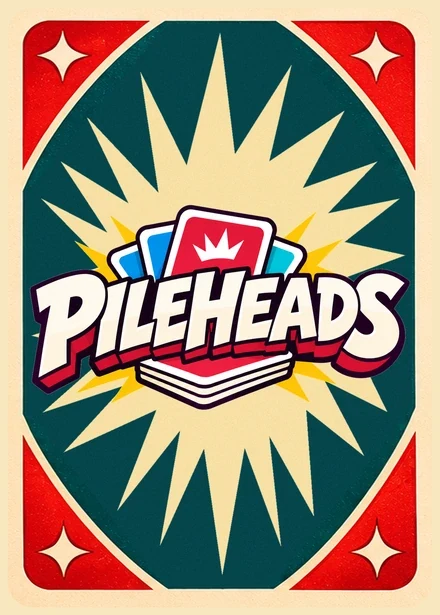
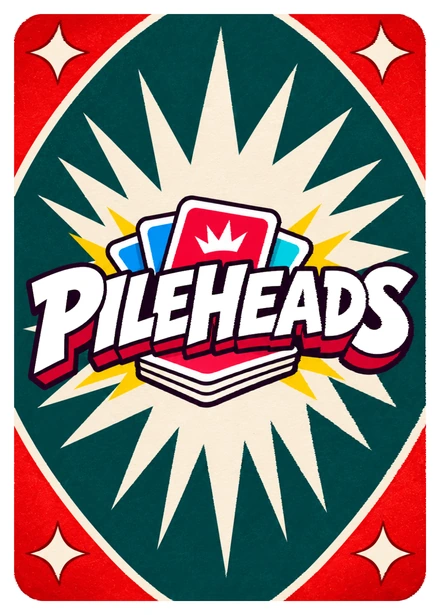
Use approved PILEHEADS V8 card back across web and simulator

diff --git a/apps/web/app/official-home.module.css b/apps/web/app/official-home.module.css
@@ -3,7 +3,7 @@
 .header{position:relative;z-index:3;background:#111b1e;color:var(--paper);border-bottom:4px solid #242e30}.nav{max-width:1320px;margin:auto;min-height:82px;padding:9px 5%;display:flex;align-items:center;justify-content:space-between;gap:28px;font-size:clamp(14px,1.6vw,19px);letter-spacing:0}.nav nav{display:flex;align-items:center;gap:clamp(16px,3vw,48px);flex-wrap:wrap}.nav nav a{padding:9px 2px}.nav nav a:hover{color:var(--yellow)}.nav .navPlay{background:var(--yellow);color:#151715;border-radius:50px;padding:11px 22px;white-space:nowrap}.nav .navPlay:hover{color:#151715;background:#ffe183}
 .brand{display:inline-flex;position:relative;flex-direction:column;isolation:isolate;align-items:center;line-height:.85;padding:12px 10px 13px;transform:rotate(-8deg);font-size:clamp(35px,4.4vw,64px);letter-spacing:-.07em;white-space:nowrap;color:var(--paper);filter:drop-shadow(0 2px 0 #050a09)}.brandWord{position:relative;z-index:1;-webkit-text-stroke:1px var(--ink);paint-order:stroke fill;text-shadow:3px 3px #0c1516,-2px -2px #0c1516,2px -2px #0c1516,-2px 2px #0c1516}.brand:after{content:"";position:absolute;z-index:0;bottom:6px;width:79%;height:8px;background:var(--yellow);border:2px solid #121a1a;transform:skew(-25deg)}.brandCards{display:flex;position:absolute;left:34%;top:0;gap:2px;z-index:-1;transform:rotate(4deg)}.brandCards i{display:block;background:var(--red);height:20px;width:15px;border:2px solid var(--paper);border-radius:2px;transform:rotate(-14deg)}.brandCards i:nth-child(2){transform:translateY(-3px)}.brandCards i:last-child{transform:rotate(14deg)}
 .hero,.deck,.physical,.closing{position:relative;background-image:var(--grain);background-size:4px 4px}.hero{background-color:#086879;color:var(--paper);isolation:isolate;background-image:var(--grain),radial-gradient(ellipse at 70% 52%,#1594a2 0%,transparent 69%);background-size:4px 4px,auto}.hero:after{content:"";position:absolute;left:-3%;right:-3%;height:35px;bottom:-1px;background:var(--paper);clip-path:polygon(0 70%,7% 25%,14% 60%,21% 30%,29% 65%,38% 32%,47% 65%,56% 27%,65% 62%,75% 33%,84% 60%,94% 25%,100% 55%,100% 100%,0 100%);pointer-events:none}.heroInner{width:min(1320px,100%);margin:auto;min-height:clamp(500px,48vw,680px);padding:clamp(38px,6vw,88px) 5% 70px;display:grid;grid-template-columns:.84fr 1.16fr;align-items:center;gap:25px}.heroCopy{position:relative;z-index:2}.kicker{font-weight:850;text-transform:uppercase;letter-spacing:.13em;font-size:clamp(10px,1vw,13px);margin-bottom:12px!important}.hero h1{font-size:clamp(66px,8.1vw,118px);line-height:.84;letter-spacing:-.065em;transform:skew(-3deg) rotate(-3deg);text-shadow:5px 7px 0 #10323a,9px 11px 0 #12343a;margin:12px 0 28px;max-width:100%}.hero h1 span,.home h2 span{color:var(--yellow)}.lead{max-width:415px;font-size:clamp(17px,1.7vw,22px);font-weight:700;line-height:1.45}.buttons{display:flex;align-items:flex-start;flex-wrap:wrap;gap:13px;margin-top:24px}.hero .buttons{flex-direction:column;align-items:flex-start}.button{display:inline-flex;min-height:50px;align-items:center;justify-content:center;gap:10px;padding:12px 24px;font-size:clamp(15px,1.75vw,21px);line-height:1.15;letter-spacing:0;border:2px solid #172021;border-radius:999px;box-shadow:0 4px 0 #172021;transition:transform .18s,box-shadow .18s;text-align:center}.button:hover{transform:translateY(-3px);box-shadow:0 7px 0 #172021}.button:active{transform:translateY(3px);box-shadow:0 1px 0 #172021}.red{background:#c92122;color:#fff8e8}.cream{background:#fff3d5;color:var(--ink)}.yellow{background:var(--yellow);color:var(--ink)}.facts{display:flex;flex-wrap:wrap;gap:8px 15px;margin-top:22px;font-size:12px;font-weight:850;text-transform:uppercase}.facts span+span:before{content:"•";margin-right:15px;color:var(--yellow)}
-.card{display:block;aspect-ratio:252/355;border-radius:7%;background-image:url("/pilehead/assets/stack-characters.webp?v=white-border-v7");background-size:400% 400%;background-repeat:no-repeat;background-color:var(--paper);box-shadow:0 2px 0 #ac9365,0 8px 15px #0a151a5c;flex:none;transition:transform .22s ease}.heroArt{min-height:460px;position:relative;isolation:isolate}.burst{position:absolute;inset:-15% -25%;z-index:-1;background:repeating-conic-gradient(from -14deg at 50% 50%,transparent 0deg 15deg,#f6c32c8a 16deg 19deg,transparent 20deg 33deg);mask-image:radial-gradient(ellipse,transparent 18%,#000 42%,transparent 72%);transform:rotate(-9deg);pointer-events:none}.heroArt .card{position:absolute;width:28%;top:9%;transform:rotate(var(--r));z-index:var(--z,1)}.heroBurn{left:7%;--r:-19deg}.heroDump{left:29%;--r:-5deg;--z:2}.heroGhost{left:50%;--r:9deg;--z:3}.heroReset{left:70%;--r:20deg;--z:2;top:20%!important}.heroArt .heroOne{width:34%;left:10%;top:38%;--r:-14deg;--z:4}.heroArt .heroTwo{width:28%;left:69%;top:51%;--r:20deg;--z:4}.heroArt .heroSeven{width:29%;left:47%;top:40%;--r:8deg;--z:5}.backStack,.productBack,.tableBack{background:url("/pilehead/assets/stack-back.webp") center/cover;border:3px solid var(--paper);border-radius:10px;box-shadow:0 2px 0 #ba9e73,0 4px 0 #f0d8a9,0 6px 0 #a99062,0 8px 0 #f0d8a9,0 16px 19px #0005}.backStack{position:absolute;width:36%;aspect-ratio:252/355;left:33%;bottom:0;z-index:7;transform:rotate(67deg) scaleY(.79)}.artCaption{position:absolute;bottom:3%;right:0;z-index:8;color:var(--yellow);font-style:italic;font-weight:950;font-size:clamp(12px,1.6vw,19px);transform:rotate(-8deg);text-shadow:2px 2px #14363a}
+.card{display:block;aspect-ratio:252/355;border-radius:7%;background-image:url("/pilehead/assets/stack-characters.webp?v=white-border-v7");background-size:400% 400%;background-repeat:no-repeat;background-color:var(--paper);box-shadow:0 2px 0 #ac9365,0 8px 15px #0a151a5c;flex:none;transition:transform .22s ease}.heroArt{min-height:460px;position:relative;isolation:isolate}.burst{position:absolute;inset:-15% -25%;z-index:-1;background:repeating-conic-gradient(from -14deg at 50% 50%,transparent 0deg 15deg,#f6c32c8a 16deg 19deg,transparent 20deg 33deg);mask-image:radial-gradient(ellipse,transparent 18%,#000 42%,transparent 72%);transform:rotate(-9deg);pointer-events:none}.heroArt .card{position:absolute;width:28%;top:9%;transform:rotate(var(--r));z-index:var(--z,1)}.heroBurn{left:7%;--r:-19deg}.heroDump{left:29%;--r:-5deg;--z:2}.heroGhost{left:50%;--r:9deg;--z:3}.heroReset{left:70%;--r:20deg;--z:2;top:20%!important}.heroArt .heroOne{width:34%;left:10%;top:38%;--r:-14deg;--z:4}.heroArt .heroTwo{width:28%;left:69%;top:51%;--r:20deg;--z:4}.heroArt .heroSeven{width:29%;left:47%;top:40%;--r:8deg;--z:5}.backStack,.productBack,.tableBack{background:url("/pilehead/assets/stack-back.webp?v=white-border-v8") center/cover;border:3px solid var(--paper);border-radius:10px;box-shadow:0 2px 0 #ba9e73,0 4px 0 #f0d8a9,0 6px 0 #a99062,0 8px 0 #f0d8a9,0 16px 19px #0005}.backStack{position:absolute;width:36%;aspect-ratio:252/355;left:33%;bottom:0;z-index:7;transform:rotate(67deg) scaleY(.79)}.artCaption{position:absolute;bottom:3%;right:0;z-index:8;color:var(--yellow);font-style:italic;font-weight:950;font-size:clamp(12px,1.6vw,19px);transform:rotate(-8deg);text-shadow:2px 2px #14363a}
 .benefits{padding:22px 5% 31px;background-color:var(--paper);background-image:var(--grain);background-size:4px 4px}.benefits h2{text-align:center;font-size:clamp(25px,3vw,38px);margin-bottom:17px}.benefitGrid{width:min(1120px,100%);margin:auto;display:grid;grid-template-columns:repeat(3,1fr);gap:22px}.benefitGrid article{display:flex;gap:15px;align-items:center;padding:7px 17px}.benefitGrid article+article{border-left:2px solid #191b1933}.benefitGrid article>span{width:48px;height:48px;flex:none;background:var(--yellow);border:2px solid var(--ink);border-radius:50%;display:grid;place-items:center;font-weight:950;font-size:31px;line-height:1}.benefitGrid h3{font-size:clamp(18px,2vw,24px)}.benefitGrid p{font-weight:650;font-size:13px;line-height:1.4;margin-top:3px}
 .split{max-width:1320px;margin:auto;padding:clamp(42px,6vw,86px) 5%;display:grid;grid-template-columns:.85fr 1.15fr;gap:clamp(22px,5vw,75px);align-items:center}.home h2{font-size:clamp(37px,5.2vw,74px);line-height:.92;letter-spacing:-.045em}.benefits h2{font-size:clamp(25px,3vw,38px)}.split p:not(.kicker):not(.releaseNote){font-size:clamp(16px,1.6vw,20px);font-weight:650;line-height:1.5;max-width:470px;margin:17px 0 22px}.deck{background-color:#075b66;color:var(--paper)}.actionFan{display:flex;align-items:center;justify-content:center;padding:14px 12px;min-width:0}.actionFan .card{width:27%;margin-left:-2%;transform:rotate(var(--tilt));transform-origin:50% 90%}.actionFan .card:hover{transform:translateY(-12px) rotate(0);z-index:3}.fan0{--tilt:-13deg}.fan1{--tilt:-4deg}.fan2{--tilt:5deg}.fan3{--tilt:14deg}
 .online{background-color:var(--paper);background-image:var(--grain);background-size:4px 4px}.online .split{grid-template-columns:1.05fr .95fr}.online h2 span{color:var(--red)}.device{border:10px solid #182020;background:#131d1d;border-radius:25px;box-shadow:0 0 0 2px #ad936b,0 12px 0 #aa9164,0 20px 30px #211e1838;transform:rotate(-5deg);overflow:hidden;padding:5px;aspect-ratio:1.8;display:flex;flex-direction:column}.deviceHeader{display:flex;align-items:center;justify-content:space-between;color:var(--paper);padding:6px 8px;font-size:10px;font-weight:900}.deviceHeader strong{font-style:italic;font-size:20px}.deviceHeader span{color:var(--yellow)}.table{position:relative;flex:1;border:2px solid #bead7a;border-radius:45%;background:radial-gradient(ellipse,#16887d,#06525a);display:flex;flex-direction:column;align-items:center;justify-content:space-between;padding:8px}.seat{color:var(--paper);font-size:10px;font-weight:800}.tablePile{display:flex;align-items:center;justify-content:center;gap:13px;width:100%;position:absolute;top:28%}.tablePile .card,.tableBack{width:13%;aspect-ratio:252/355;box-shadow:0 4px 6px #0005}.hand{display:flex;justify-content:center;width:100%;height:37%;gap:3px}.hand .card{width:12%;align-self:flex-end;transform:rotate(-5deg)}.hand .card:nth-child(2){transform:translateY(-3px)}.hand .card:nth-child(3){transform:rotate(5deg)}.textLink{font-weight:850;text-decoration:underline;text-underline-offset:4px;align-self:center;padding:10px 3px}.physical{background-color:#c52c2c;color:var(--paper)}.physical .split{grid-template-columns:1fr 1fr}.productArt{position:relative;height:clamp(210px,28vw,370px);display:grid;place-items:center}.productBox{position:absolute;left:17%;top:2%;width:37%;height:87%;background:repeating-conic-gradient(at 50% 55%,#e0a733 0deg 3deg,transparent 3deg 21deg),#086977;border:3px solid #121b1a;box-shadow:-13px 7px 0 #08313a,-16px 9px 0 #172020,0 19px 22px #3e151a88;transform:rotate(-7deg);display:flex;flex-direction:column;align-items:center;justify-content:space-around;overflow:hidden;color:var(--paper);text-align:center;padding:5px}.productBox .brand{font-size:clamp(23px,3.5vw,49px)}.productBox>span:not(.brand){font-size:clamp(6px,.75vw,10px);font-weight:950}.productBox>.card{width:49%;transform:rotate(-5deg);box-shadow:none}.productBack{width:31%;aspect-ratio:252/355;position:absolute;left:44%;bottom:0;transform:rotate(64deg) scaleY(.74)}.productFace{position:absolute;width:28%;right:5%;top:9%;transform:rotate(16deg)}.releaseNote{font-size:13px;margin-top:15px!important;font-weight:650}
@@ -14,7 +14,7 @@
 
 /* Approved V2 artwork, web-optimized from Drive masters. Homepage only. */
 .card{aspect-ratio:63/88;background-image:url("/stack-media/stack-home-faces-web-desktop.webp?v=white-border-v7")}
-.backStack,.productBack,.tableBack{background-image:url("/stack-media/stack-home-back-web.webp")}
+.backStack,.productBack,.tableBack{background-image:url("/stack-media/stack-home-back-web.webp?v=white-border-v8")}
 .brand{display:inline-flex;align-items:center;justify-content:center;width:clamp(80px,9vw,133px);padding:0;transform:none;filter:drop-shadow(0 2px 0 #0b1011)}
 .brand img{width:100%;height:auto;max-height:76px;object-fit:contain}
 .brand:after{display:none}

diff --git a/apps/web/app/globals.css b/apps/web/app/globals.css
@@ -94,7 +94,7 @@ button:focus-visible,input:focus-visible,select:focus-visible,a:focus-visible{
   overflow:visible;will-change:transform;transform-origin:center center}
 .card-art{position:absolute;inset:2px;border-radius:7px;background-image:url("/pilehead/assets/stack-characters.webp?v=white-border-v7");
   background-size:400% 400%;background-repeat:no-repeat;pointer-events:none}
-.playing-card.is-back .card-art{background-image:url("/pilehead/assets/stack-back.webp");background-size:cover;background-position:center}
+.playing-card.is-back .card-art{background-image:url("/pilehead/assets/stack-back.webp?v=white-border-v8");background-size:cover;background-position:center}
 .playing-card.is-selected{box-shadow:0 0 0 4px var(--gold),0 14px 25px #0009;z-index:8}
 .playing-card.is-interactive:hover{box-shadow:0 0 0 2px #ffe1a5,0 15px 22px #000a}
 .card-hit{position:absolute;inset:0;width:100%;height:100%;border:0;padding:0;border-radius:10px;background:transparent}
@@ -324,7 +324,7 @@ button:focus-visible,input:focus-visible,select:focus-visible,a:focus-visible{
    and the action dock must NEVER overlap the player's physical cards. */
 .playing-card.theme-original.is-back .card-art,
 .drag-ghost.theme-original.is-back .card-art{
-  background-image:url("/pilehead/assets/stack-back.webp");
+  background-image:url("/pilehead/assets/stack-back.webp?v=white-border-v8");
   background-size:cover;
   background-position:center;
 }
@@ -911,16 +911,16 @@ button:focus-visible,input:focus-visible,select:focus-visible,a:focus-visible{
 .mini-pair{width:30px;height:40px}
 .mini-back,.mini-face{width:30px;height:40px;border-radius:5px}
 .opponent-card-stack .hand-back{
-  background-image:url("/pilehead/assets/stack-back.webp");
+  background-image:url("/pilehead/assets/stack-back.webp?v=white-border-v8");
   background-size:cover;background-position:center;
   border-color:#f9e9c8;box-shadow:0 3px 8px #0008,0 1px 1px #edd9a8
 }
 .pile-zone .stack-depth{
-  background-image:url("/pilehead/assets/stack-back.webp");
+  background-image:url("/pilehead/assets/stack-back.webp?v=white-border-v8");
   background-size:cover;background-position:center;opacity:.72
 }
 .mini-back{
-  background-image:url("/pilehead/assets/stack-back.webp");
+  background-image:url("/pilehead/assets/stack-back.webp?v=white-border-v8");
   background-position:center;background-size:cover
 }
 .mini-face{
@@ -993,5 +993,5 @@ button:focus-visible,input:focus-visible,select:focus-visible,a:focus-visible{
 .opponent-seat.theme-refined .mini-back,
 .tabletop.theme-refined .stack-depth,
 .move-story-overlay.theme-refined .move-story-stack-back {
- background-image:url("/pilehead/assets/stack-back-v2.webp");background-size:cover;background-position:center;
+ background-image:url("/pilehead/assets/stack-back-v2.webp?v=white-border-v8");background-size:cover;background-position:center;
 }

diff --git a/dist/pilehead/deck-raster.js b/dist/pilehead/deck-raster.js
@@ -23,7 +23,7 @@ function sprite(c){
  return '<span class="ph-raster-cell" data-card-art="'+slot.name+'" style="--stack-x:'+pos[slot.col]+';--stack-y:'+pos[slot.row]+'"></span>';
 }
 function face(c){return root.StackDeckThemes?.get?.()==='studio'?prior.face(c):'<span class="ph-plate ph-raster-plate" aria-hidden="true">'+sprite(c)+'</span>';}
-function backSrc(){return root.StackDeckThemes?.get?.()==='refined'?'assets/stack-back-v2.webp':'assets/stack-back.webp';}
+function backSrc(){return root.StackDeckThemes?.get?.()==='refined'?'assets/stack-back-v2.webp?v=white-border-v8':'assets/stack-back.webp?v=white-border-v8';}
 function back(){
  return '<span class="ph-plate ph-raster-plate ph-back-raster" aria-hidden="true"><img class="ph-raster-back" src="'+backSrc()+'" alt="" draggable="false" decoding="async"></span>';
 }

diff --git a/docs/pilehead-illustrated-deck.md b/docs/pilehead-illustrated-deck.md
@@ -1,6 +1,6 @@
 # PILEHEADS card artwork — White Border V7
 
-The current illustrated deck uses the 16 card faces approved on 2026-11-26. The web sprites were composed from the individual files, not a regenerated collage. Slot order is numbers 1–10, RESET, GHOST, UNDER, SKIP, BURN, DUMP, row-major in a 4 × 4 grid. The rules engine, card IDs and back artwork are unchanged.
+The current illustrated deck uses the 16 card faces approved on 2026-11-26. The web sprites were composed from the individual files, not a regenerated collage. Slot order is numbers 1–10, RESET, GHOST, UNDER, SKIP, BURN, DUMP, row-major in a 4 × 4 grid. The rules engine and card IDs are unchanged. The V8 card back supersedes the previous back artwork without changing the V7 faces.
 
 ## Current source of truth
 - Drive digital exports: https://drive.google.com/drive/folders/1ZA4WccE-1fJOewzw1F9nUhq9cLB7E18e
@@ -8,10 +8,13 @@ The current illustrated deck uses the 16 card faces approved on 2026-11-26. The 
 - `dist/pilehead/assets/stack-characters.webp`: compact V7, 1008 × 1420, retaining the existing compact sprite geometry.
 - `apps/web/public/stack-media/stack-home-faces-{v2,web-desktop,web-mobile}.webp`: V7 marketing sprites, in the same slot order.
 - `dist/pilehead/assets/stack-sheet.webp`: deliberately retained legacy Original theme; Studio remains a separate vector theme.
-- `dist/pilehead/assets/stack-back*.webp`: existing card backs; not changed by this face-art release.
+- `dist/pilehead/assets/stack-back*.webp`: V8 card back, exported at 504 × 704 from the approved white-border master.
 - `apps/web/scripts/sync-assets.mjs`: copies the canonical simulator assets into the Next frontend.
 - `tests/pilehead-raster-assets.cjs`: pinned hashes of the five updated exports and slot mapping checks.
 
 V7 supplies the default/compact simulator themes (hands, opponents, piles, drag and travel animations), the gallery, print preview, lobby, landing-page card fans and illustrated rules. Gameplay screenshots (desktop, wide and mobile) are actual V7 browser acceptance captures from run 45878348885, cropped to omit the old header label and optimized for the web. Packaging/mascot illustrations are separate artwork.
 
 Run `npm run test:pilehead-art`, `npm run build`, and the browser acceptance suite. Review the live homepage, /play, /pilehead/gallery.html, and /pilehead/print.html. Use the individual full-resolution masters for commercial print preparation, not web sprites.
+
+## V8 card back (2026-11-26)
+Canonical master: [PILEHEADS_BACK_white_border_v8.png](https://drive.google.com/file/d/12dM4rh7gm6YcA9M98dtbwoyVG106WedP/view) (1071 × 1496). Website exports: 440 × 615 and 300 × 419. The pure-white logo lettering and white outer border are preserved. Existing gameplay screenshots and embedded illustrations require separate visual refreshes; they are not updated by replacing runtime textures.
